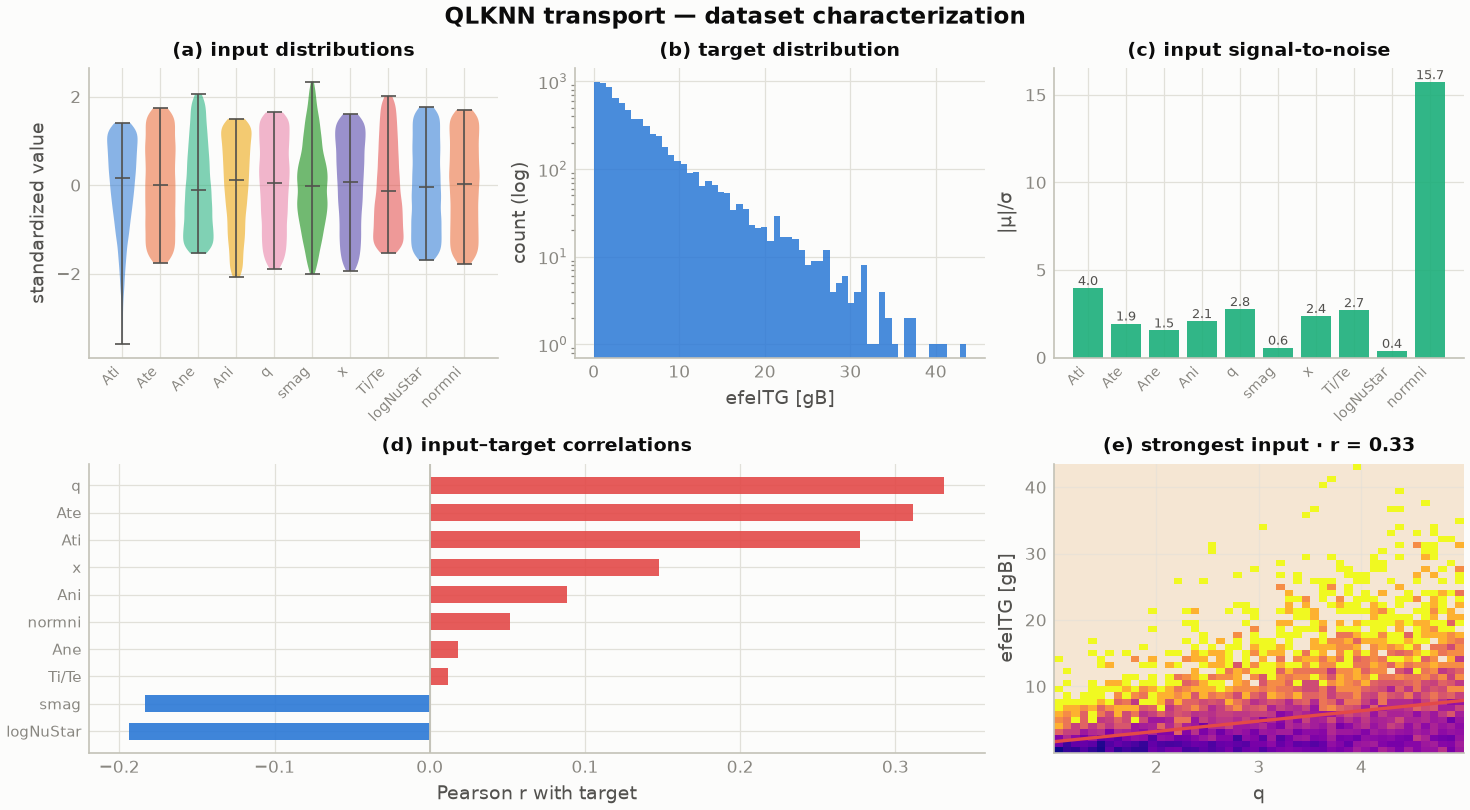
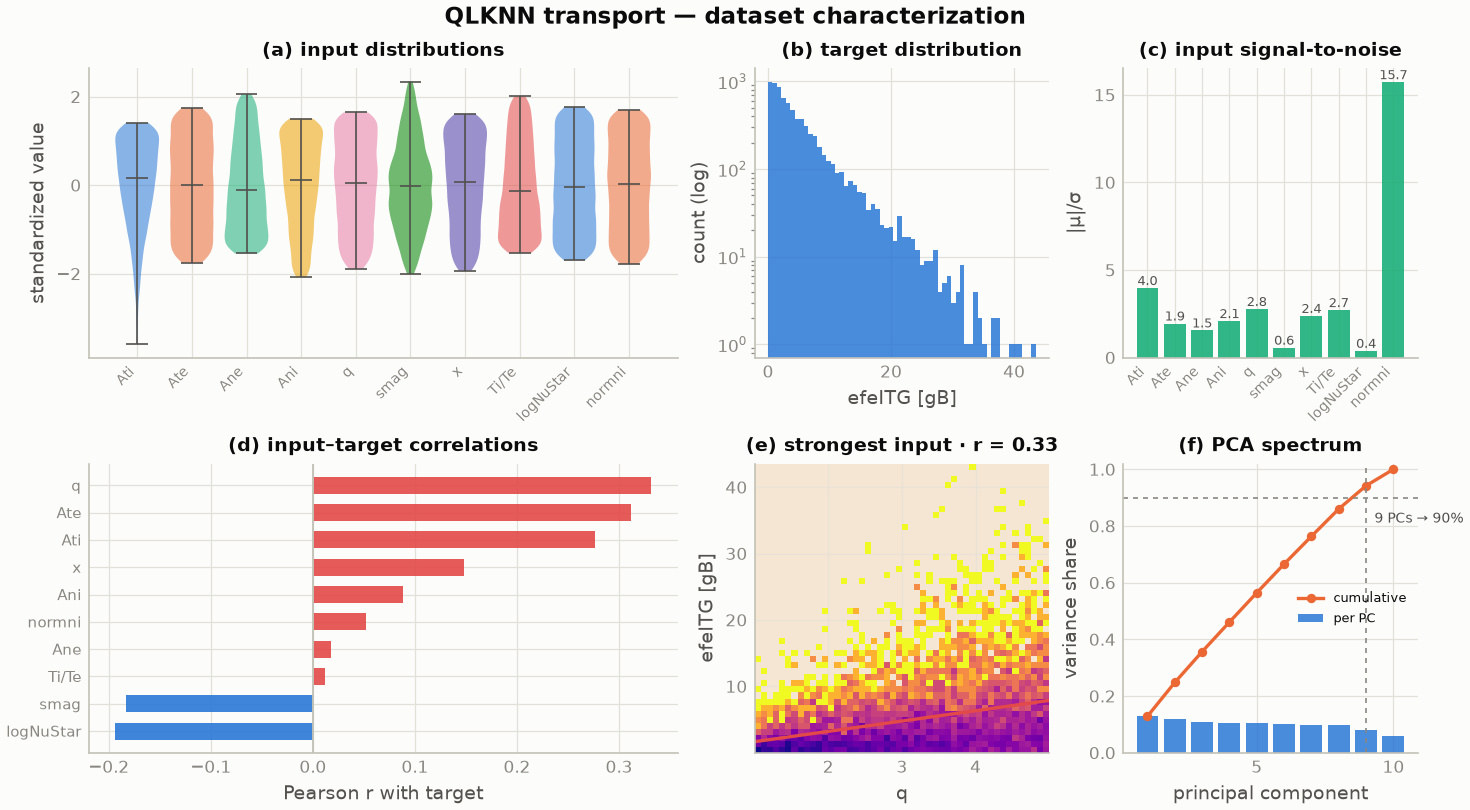
docs(readme): architecture figure, publications, monitoring/MLflow, strongest results
- parity showcase now uses the strongest model in the run (HPO-tuned
  residual MLP, R2 0.98 train / 0.96 test) instead of the RF baseline;
  gallery + readme assets refreshed (incl. characterization with the
  PCA panel)
- results grid gains training-monitoring (per-epoch JSONL curves) with
  the MLflow opt-in noted, ordered science-first
- 'SURGE in publications' section: Nuclear Fusion ICRF surrogate paper
  and EPJ Web of Conferences (RF Power in Plasmas 2026, art. 01005)

diff --git a/examples/viz_theme_gallery.py b/examples/viz_theme_gallery.py
@@ -85,7 +85,10 @@ def parity_figure(run_dir: Path, mode: str, units: str = "a.u."):
     from sklearn.metrics import r2_score
 
     metrics = json.loads((run_dir / "metrics.json").read_text())
-    model_key = next(iter(metrics))
+    # showcase the strongest model in the run (highest test R²)
+    model_key = max(
+        metrics,
+        key=lambda k: (metrics[k].get("test") or {}).get("r2", float("-inf")))
     splits = {}
     for split in ("train", "test"):
         try:

diff --git a/README.md b/README.md
@@ -17,14 +17,13 @@ with every run reproducible from its own `runs/<tag>/` directory.
 [DOI 10.11578/dc.20260422.5](https://doi.org/10.11578/dc.20260422.5)
 
 <p align="center">
-  <img src="docs/assets/readme/field_operator.png"
-       alt="Burgers' 1D operator learning: best/median/worst test samples, signed-error field, and error distribution — generated by SURGE from run artifacts"
-       width="820"/>
+  <img src="docs/assets/readme/architecture.png"
+       alt="SURGE architecture: ingest & characterize, model & optimize, evaluate & quantify, report & deploy — with real result figures embedded per stage and a provenance strip"
+       width="900"/>
 </p>
-<p align="center"><sub><em>Operator learning on viscous Burgers' equation
-(residual MLP via the SURGE registry): sample fits, signed-error field over
-the test set, and per-sample error distribution — every figure generated
-from run artifacts, never hand-assembled.</em></sub></p>
+<p align="center"><sub><em>The workflow by functionality — every thumbnail is a
+real SURGE output, regenerated from run artifacts
+(<code>python scripts/make_architecture_poster.py</code>).</em></sub></p>
 
 ---
 
@@ -89,9 +88,11 @@ sortable tables — generated exclusively from
 | | |
 |:---:|:---:|
 | <img src="docs/assets/readme/parity.png" width="400" alt="Train/test parity density plots with reversed-plasma colormap and R² boxes"/> | <img src="docs/assets/readme/hpo_convergence.png" width="400" alt="HPO history with running best and starred best trials"/> |
-| *Regression parity (QLKNN ITG heat-flux surrogate): log-scaled density, R² 0.91 train / 0.74 test for the RF baseline — the HPO-tuned residual MLP reaches 0.96 test.* | *Optuna HPO across models: per-trial traces, running best, gold star at each optimum.* |
-| <img src="docs/assets/readme/uncertainty.png" width="400" alt="GP surrogate with 68/95% credible bands"/> | <img src="docs/assets/readme/characterization.png" width="400" alt="Dataset characterization panel"/> |
-| *Gaussian-process surrogate with 68/95% credible bands — the band widens where training data is absent (96% truth coverage).* | *Pre-training dataset characterization: distributions, signal-to-noise, input–target correlations.* |
+| *Plasma-transport surrogate (QLKNN ITG heat flux): HPO-tuned residual MLP, R² **0.98 train / 0.96 test**, log-density parity in the style of the ICRF surrogate papers.* | *Optuna HPO across models: per-trial traces, running best, gold star at each optimum.* |
+| <img src="docs/assets/readme/field_operator.png" width="400" alt="Burgers operator learning: sample fits, signed-error field, error distribution"/> | <img src="docs/assets/readme/uncertainty.png" width="400" alt="GP surrogate with 68/95% credible bands"/> |
+| *Operator learning on viscous Burgers' equation: best/median/worst test samples, signed-error field, per-sample rel-L2 distribution.* | *Gaussian-process surrogate with 68/95% credible bands — the band widens where training data is absent (96% truth coverage).* |
+| <img src="docs/assets/gallery/training_curves.png" width="400" alt="Training monitoring: train/val loss with generalisation gap and best epoch"/> | <img src="docs/assets/readme/characterization.png" width="400" alt="Dataset characterization panel with PCA spectrum"/> |
+| *Live training monitoring from per-epoch JSONL logs: generalisation gap shaded, best epoch starred; opt-in MLflow tracking mirrors every run (`mlflow_tracking: true` in the spec, or `surge bench --mlflow`).* | *Pre-training dataset characterization: distributions, signal-to-noise, input–target correlations, PCA effective dimensionality.* |
 
 Regenerate everything above from your own runs — full gallery per
 problem type in [`docs/gallery.md`](docs/gallery.md):
@@ -276,10 +277,21 @@ Gallery of every figure type: `python examples/viz_theme_gallery.py`.
 | Architecture roadmap | [`docs/design/ARCHITECTURE_RECOMMENDATIONS.md`](docs/design/ARCHITECTURE_RECOMMENDATIONS.md) |
 | Doc index | [`docs/README.md`](docs/README.md) |
 
-SURGE methodology in the literature: Á. Sánchez-Villar et al.,
-*real-time capable ICRF heating surrogates for NSTX-U and WEST*
-(Nuclear Fusion) — the parity/HPO figure conventions above follow those
-publications.
+## SURGE in publications
+
+The methodology and figure conventions above come from peer-reviewed
+surrogate-modeling work by the SURGE authors:
+
+- Á. Sánchez-Villar *et al.*, *Real-time capable modeling of ICRF heating
+  on NSTX-U and WEST via machine-learning approaches*, **Nuclear Fusion**.
+- Á. Sánchez-Villar *et al.*, *Automated ICRF-heating surrogate modeling
+  via machine learning*, **EPJ Web of Conferences** (RF Power in Plasmas,
+  2026), art. 01005 —
+  [epj-conferences.org](https://www.epj-conferences.org/articles/epjconf/abs/2026/02/epjconf_rfppc2026_01005/epjconf_rfppc2026_01005.html).
+
+Software citation: [DOE CODE 179819](https://www.osti.gov/doecode/biblio/179819),
+DOI [10.11578/dc.20260422.5](https://doi.org/10.11578/dc.20260422.5),
+[`CITATION.cff`](CITATION.cff).
 
 ---
 
